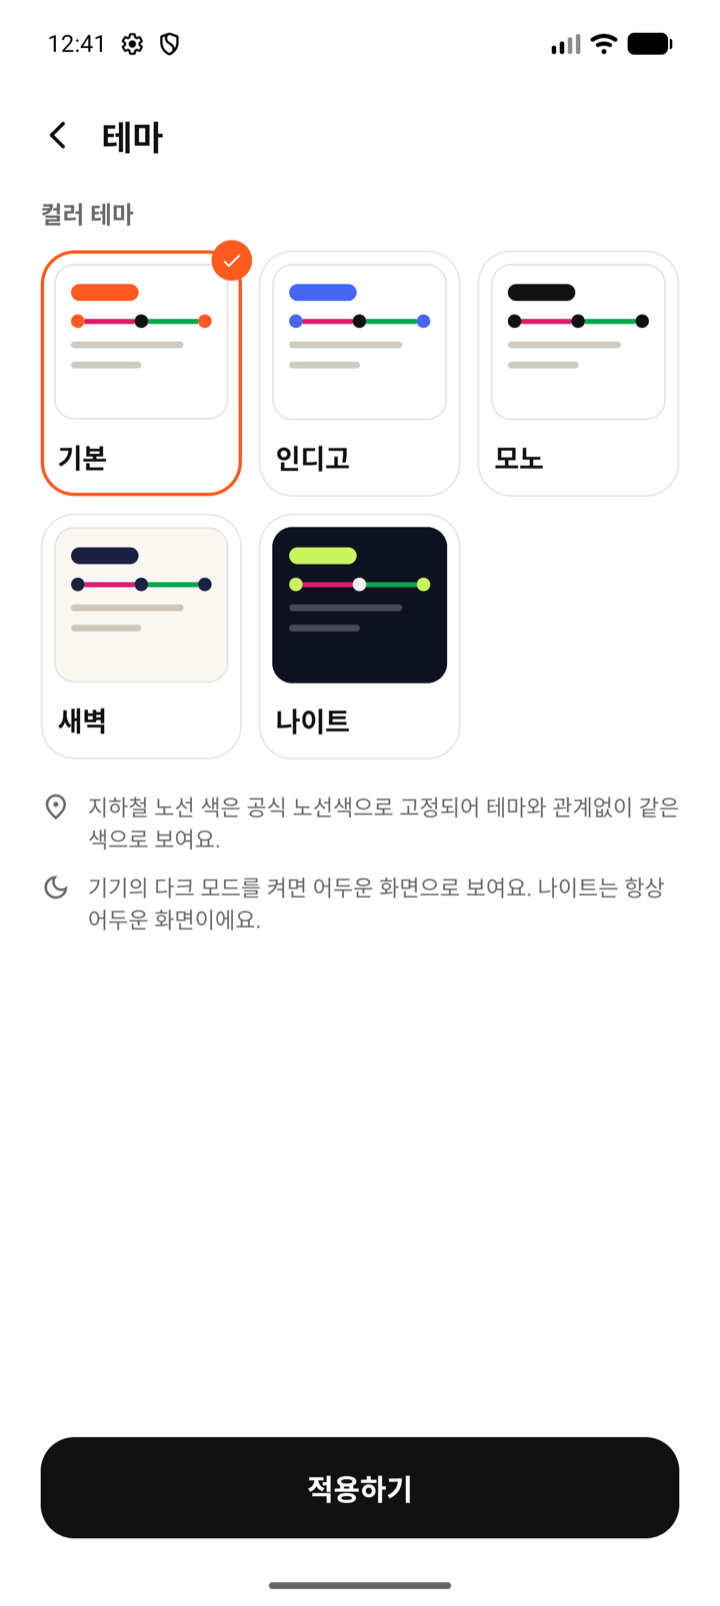
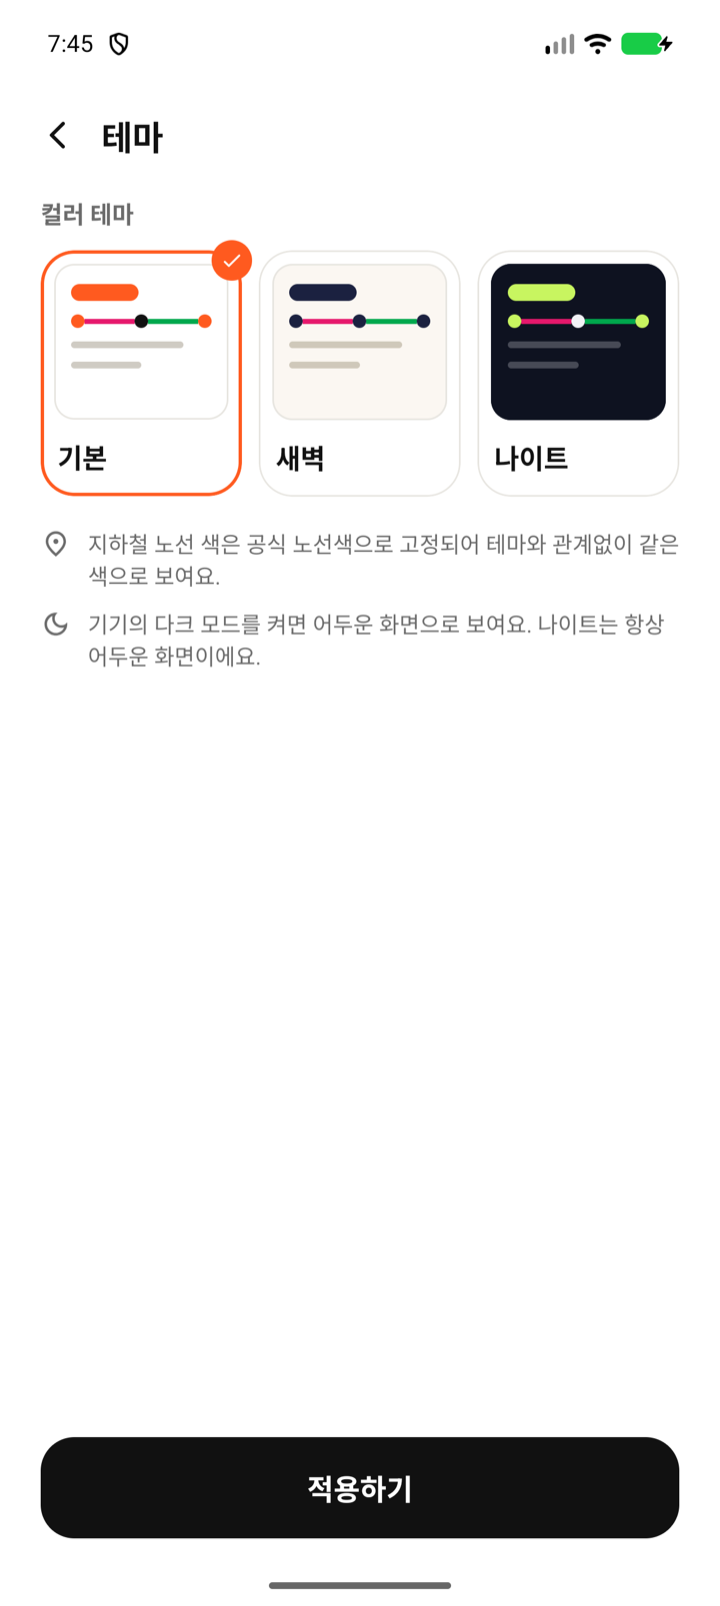
README와 스크린샷에 휠 선택기와 테마 3종 반영

diff --git a/README.md b/README.md
@@ -61,11 +61,12 @@ Kotlin · Jetpack Compose · Clean Architecture(MVVM) · Hilt · Room · DataSto
 | 기상 알람 + 출발 알림 | 기상 알람(전체 화면, 알람음, 진동, 5·10분 스누즈)과 "10분 뒤 출발" / "지금 출발" 알림 분리 |
 | Offline First | 네트워크 실패 시 Room 캐시 → 마지막 계산값으로 알람 유지, 화면에 안내 띠 표시 |
 | 일정 만들기 5단계 | 출발지 → 도착지 → 도착 시각·반복 → 준비 시간 → 여유 시간, 저장 전에 계산 미리보기 |
+| 아이폰식 휠 입력 | 도착 시각(오전/오후 · 시 · 분)과 준비 시간(시간 · 분)을 휠을 돌려 고른다. 시 휠이 11과 12 사이를 지나면 오전/오후가 따라 바뀐다 |
 | 반복 일정 | 한 번(날짜 선택) / 평일 / 매일 / 요일 직접 선택 |
 | 장소 관리 | 화면 안 검색, 즐겨찾기(집/학교/회사), 최근 검색, 현재 위치 출발 |
 | 무료 플랜 / PRO | 무료는 일정 2개와 출발 전 교통 확인 1회, PRO 는 일정 무제한과 실시간 재계산 ([4장](#4-무료-플랜과-pro)) |
 | 단체 이용권 | 학교·기업이 준 코드를 입력하면 기관·기간을 확인하고 PRO 적용 |
-| 컬러 테마 | 기본(오렌지)·인디고·모노·새벽·나이트 5종, 모든 플랜에서 선택 가능 |
+| 컬러 테마 | 기본(오렌지)·새벽·나이트 3종, 모든 플랜에서 선택 가능 |
 | 재부팅·시간대 대응 | BOOT_COMPLETED / TIMEZONE_CHANGED 수신 후 알람 복구 |
 | 데모 모드 | API 키 없이 Fake 교통 데이터로 전체 흐름 시연, 설정에서 가상 지연·네트워크 오류 주입 |
 | 측정 지표 | API 호출/실패/캐시 적중/재계산/자동 조정 횟수를 Room 에 기록, 설정 화면에서 확인 |
@@ -76,7 +77,7 @@ Kotlin · Jetpack Compose · Clean Architecture(MVVM) · Hilt · Room · DataSto
 |---|---|---|
 | UI-A-001 | 온보딩 3쪽 + 권한 안내 | `onboarding/OnboardingScreen.kt` |
 | UI-B-001 | 홈 (내일 경로) | `home/HomeScreen.kt` |
-| UI-C-001 ~ 005 | 새 일정 5단계 | `schedule/create/CreateScheduleScreen.kt`, `PlaceStep.kt` |
+| UI-C-001 ~ 005 | 새 일정 5단계 | `schedule/create/CreateScheduleScreen.kt`, `PlaceStep.kt` (시각·준비 시간 휠은 `core/designsystem/component/Wheel*.kt`) |
 | UI-C-006 | 계산 미리보기 | `schedule/create/PreviewStep.kt` |
 | UI-D-001 | 알람 목록 | `alarmlist/AlarmListScreen.kt` |
 | UI-D-002 | 일정 상세 | `schedule/detail/ScheduleDetailScreen.kt` |
@@ -90,13 +91,17 @@ Kotlin · Jetpack Compose · Clean Architecture(MVVM) · Hilt · Room · DataSto
 
 에뮬레이터(Pixel 10 Pro, Android 17)에서 Fake 교통 데이터로 캡처한 화면이다.
 
-| 온보딩 | 홈 | 일정 만들기 | 계산 미리보기 |
+| 온보딩 | 홈 | 일정 만들기 (장소) | 도착 시각 (휠) |
 |---|---|---|---|
-| ![온보딩](docs/screenshots/onboarding.png) | ![홈](docs/screenshots/home.png) | ![생성](docs/screenshots/create.png) | ![결과](docs/screenshots/result.png) |
+| ![온보딩](docs/screenshots/onboarding.png) | ![홈](docs/screenshots/home.png) | ![생성](docs/screenshots/create.png) | ![도착 시각](docs/screenshots/time.png) |
 
-| 알람 목록 | 일정 상세 | 설정 | 기상 알람 |
+| 준비 시간 (휠) | 계산 미리보기 | 알람 목록 | 일정 상세 |
 |---|---|---|---|
-| ![알람](docs/screenshots/alarms.png) | ![상세](docs/screenshots/detail.png) | ![설정](docs/screenshots/settings.png) | ![알람 울림](docs/screenshots/ringing.png) |
+| ![준비 시간](docs/screenshots/preparation.png) | ![결과](docs/screenshots/result.png) | ![알람](docs/screenshots/alarms.png) | ![상세](docs/screenshots/detail.png) |
+
+| 설정 | 기상 알람 |
+|---|---|
+| ![설정](docs/screenshots/settings.png) | ![알람 울림](docs/screenshots/ringing.png) |
 
 | PRO 페이월 | 단체 이용권 | 구독 관리 | 테마 선택 |
 |---|---|---|---|
@@ -113,7 +118,7 @@ Kotlin · Jetpack Compose · Clean Architecture(MVVM) · Hilt · Room · DataSto
 | 일정 수 | 2개 (예시 일정은 세지 않음) | 무제한 |
 | 교통 재확인 | 기상 30분 전 1회 | 기상 24h / 3h / 1h / 20분 전 |
 | 교통이 바뀌었을 때 | 추천 카드와 알림의 **[변경하기]** 로 직접 반영 | 알람 자동 조정 + 알림 |
-| 컬러 테마 | 5종 모두 | 5종 모두 |
+| 컬러 테마 | 3종 모두 | 3종 모두 |
 
 - 플랜 판단은 화면이 아니라 도메인에서 한다: `CheckScheduleQuotaUseCase`(일정 한도), `RefreshCheckpointPolicy`(재확인 시점), `RefreshTransitTimeUseCase`(자동 조정 여부).
 - 일정 한도에 걸리면 하루에 한 번만 페이월을 자동으로 띄우고, 같은 날 다시 누르면 안내 문구만 보여준다.
@@ -125,8 +130,8 @@ Kotlin · Jetpack Compose · Clean Architecture(MVVM) · Hilt · Room · DataSto
 
 | 항목 | 설계서 v1.1 | 구현 | 이유 |
 |---|---|---|---|
-| 컬러 테마 | 기본만 무료, 4종은 PRO 잠금 | 5종 모두 무료 | 모든 사용자가 테마를 쓸 수 있도록 잠금을 풀었다 |
-| 화면 모드 | 라이트 / 다크 / 시스템 선택 | 선택 메뉴 없음. 기기의 다크 모드 설정을 따르고 나이트 테마는 항상 어두운 화면 | 테마 5종만 고르도록 단순화했다 |
+| 컬러 테마 | 5종(기본만 무료, 4종은 PRO 잠금) | 기본·새벽·나이트 3종, 모두 무료 | 모든 사용자가 테마를 쓸 수 있도록 잠금을 풀고, 인디고·모노를 빼서 3종으로 줄였다 |
+| 화면 모드 | 라이트 / 다크 / 시스템 선택 | 선택 메뉴 없음. 기기의 다크 모드 설정을 따르고 나이트 테마는 항상 어두운 화면 | 테마만 고르도록 단순화했다 |
 | "만약 15분 늦어진다면?" | 07:15 → 07:00 | 07:15 → 06:55 | 예시 숫자가 아니라 실제 계산 정책의 결과(이동 +15분, 지연 여유 +5분)를 보여준다 |
 | 결제 | Google Play 결제 | 시연용 구현 | Play Console 상품과 영수증 검증 서버가 필요하다 |
 | 광고 배너, 시간표·캘린더 연동, 택시 안내 | 제공 | 미구현 (연동 메뉴는 "준비 중"으로 표시) | 외부 SDK·API 연동 범위 |
@@ -136,7 +141,7 @@ Kotlin · Jetpack Compose · Clean Architecture(MVVM) · Hilt · Room · DataSto
 | 분류 | 사용 기술 |
 |---|---|
 | 언어 | Kotlin 2.2, Coroutines / Flow |
-| UI | Jetpack Compose, Material 3, Navigation Compose(타입 안전 라우트), 역할 기반 색 토큰(컬러 테마 5종 × 라이트/다크) |
+| UI | Jetpack Compose, Material 3, Navigation Compose(타입 안전 라우트), 역할 기반 색 토큰(컬러 테마 3종 × 라이트/다크) |
 | 아키텍처 | Clean Architecture, MVVM, UseCase, Repository Pattern |
 | DI | Hilt (+ hilt-work, hilt-navigation-compose) |
 | 저장 | Room (일정·장소·경로 캐시·알람 이력·지표), Preferences DataStore (사용자 설정·구독 상태·최근 검색) |
@@ -239,8 +244,8 @@ wakeUp    = CalculateWakeUpTime:   departure − preparation
 app/src/main/java/com/example/routealarm
 ├── core
 │   ├── common        AppResult / AppError / Dispatcher Qualifier
-│   ├── designsystem  theme(AppColors 색 토큰, 컬러 테마 5종, Typography, Shapes)
-│   │                 component(RouteLine 노선도, 버튼·카드·칩·시트 등 공통 컴포넌트)
+│   ├── designsystem  theme(AppColors 색 토큰, 컬러 테마 3종, Typography, Shapes)
+│   │                 component(RouteLine 노선도, 아이폰식 휠 선택기, 버튼·카드·칩·시트 등 공통 컴포넌트)
 │   └── util          TimeProvider, Duration 확장, 한글 줄바꿈 보정
 ├── domain            (Android 의존성 없음)
 │   ├── model         Schedule, AlarmPlan, Place, TransitRoute, UserPreferences, Subscription …
@@ -269,6 +274,7 @@ app/src/main/java/com/example/routealarm
 
 app/src/test/java/com/example/routealarm
 ├── fake              Fake Repository / Scheduler / Notifier
+├── core              휠 선택기 계산 규칙과 움직임 단위 테스트
 ├── domain            계산·정책·갱신·구독 시나리오 단위 테스트
 └── presentation      노선도 화면 모델 단위 테스트
 ```
@@ -318,7 +324,7 @@ ODsay·TMAP·공공데이터 등 어떤 제공자를 쓰든 Proxy 에서 이 형
 ./gradlew testDebugUnitTest
 ```
 
-도메인 계층과 화면 모델은 Android 의존성이 없어 JVM 에서 바로 실행된다. 현재 78개 테스트:
+도메인 계층과 화면 모델, 휠 선택기의 계산 규칙과 움직임은 Android 의존성이 없어 JVM 에서 바로 실행된다. 현재 127개 테스트:
 
 | 테스트 | 검증 내용 |
 |---|---|
@@ -332,6 +338,8 @@ ODsay·TMAP·공공데이터 등 어떤 제공자를 쓰든 Proxy 에서 이 형
 | `SubscriptionUseCasesTest` | 연간 요금(월 2,000원꼴·31% 할인), 무료 일정 한도(예시 일정 제외), 체험 시작과 재확인 재예약, 구독 종료 후 무료 전환, 단체 이용권 코드 정규화·형식 검사·확인·적용, 개인 구독 중 적용 시 해지 안내, 검증 서버 연결 실패 시 플랜 유지 |
 | `PreviewDelayScenarioUseCaseTest` | "만약 15분 늦어진다면?" 카드: 이동 +15분·지연 여유 +5분, 실제 재계산과 같은 시각, 지연이 없으면 그대로 |
 | `RouteTimelineBuilderTest` | 설계서 예시 경로의 지점·시각·구간, 승차 대기 시간 반영, 걷지 않고 바로 타는 경로, 경로 정보가 없는 계획, 방향 조사(로/으로) |
+| `WheelMathTest` | 고리 휠의 칸 번호, 12시간제 숫자와 오전/오후(11↔12 전환, 자정·정오), 분이 시를 바꾸지 않음, 시간·분 길이 변환, 내가 알린 값과 바깥에서 온 값 구분, 손을 뗀 뒤 멈출 칸과 관성 거리 조정, 원통 모양(칸 위치·크기·진하기)과 누른 칸 찾기 |
+| `WheelStateTest` | 휠의 움직임을 프레임 단위로 검증: 끌기 방향과 끝 저항, 튕긴 뒤 미리 정한 칸에 정확히 멈춤, 도는 휠을 잡아 멈추기, 잡고 있는 휠은 옮기지 않음, 바깥 값이 관성보다 우선, 취소된 움직임이 칸 사이에 남는 경우, 도는 도중의 오전/오후 전환 |
 
 리포트: `app/build/reports/tests/testDebugUnitTest/index.html`
 
@@ -362,6 +370,9 @@ ODsay·TMAP·공공데이터 등 어떤 제공자를 쓰든 Proxy 에서 이 형
 | **색은 역할 기반 토큰(AppColors)으로만 사용** | 컬러 테마를 바꿀 때 토큰 묶음만 교체하면 앱 전체에 반영됨. 노선색·상태색 같은 정보 색은 테마와 분리해 고정 |
 | **플랜에 따른 차이는 도메인에서 판단** | 화면마다 PRO 여부를 따로 검사하면 빠뜨리기 쉬움. 일정 한도·재확인 시점·자동 조정을 UseCase/Policy 가 결정 (`SubscriptionUseCases.kt`, `RefreshCheckpointPolicy`) |
 | **결제·이용권 검증도 RemoteDataSource 교체 지점으로 분리** | 실제 Play Billing + 영수증 검증 서버를 붙일 때 구현체만 바꾸면 됨. 시연 중임을 `isSimulated` 로 화면에 표시 (`SubscriptionRemoteDataSource`) |
+| **휠 선택기는 위치값 하나와 끌기 제스처로 직접 구현** | 고리처럼 끝없이 돌고, 원통 모양으로 그리고, 멈출 칸을 미리 정하려면 스크롤 목록보다 위치(가운데 칸 번호) 하나를 직접 움직이는 편이 단순하다. 끌기를 휠이 모두 가져가므로 스크롤 화면 안에서도 화면이 따라 움직이지 않는다 (`Wheel.kt`) |
+| **시 휠은 24칸 고리, 오전/오후는 거기서 계산** | 12시간제 숫자를 두 번 반복해 보여주면 11↔12 를 지날 때 오전/오후가 저절로 바뀌고, 빠르게 돌려도 숫자와 오전/오후가 어긋날 수 없다 (`WheelMath.kt`) |
+| **휠에서 손을 떼는 순간 멈출 칸을 정해 값을 알림** | 관성으로 도는 동안 다음 단계로 넘어가도 고른 값이 반영된다. 멈출 때까지 기다리면 그 사이의 값을 잃을 수 있다 (`WheelState.targetIndex`) |
 | **입력 중인 글자는 Compose 상태로 두고 입력값을 바꿔 끼우지 않음** | StateFlow 를 거치거나 입력 도중 대문자로 바꾸면 빠르게 칠 때 글자가 빠짐. 대문자 변환은 표시와 서버 확인 단계에서만 (`GroupPassViewModel`) |
 
 ## 15. 향후 개선사항
